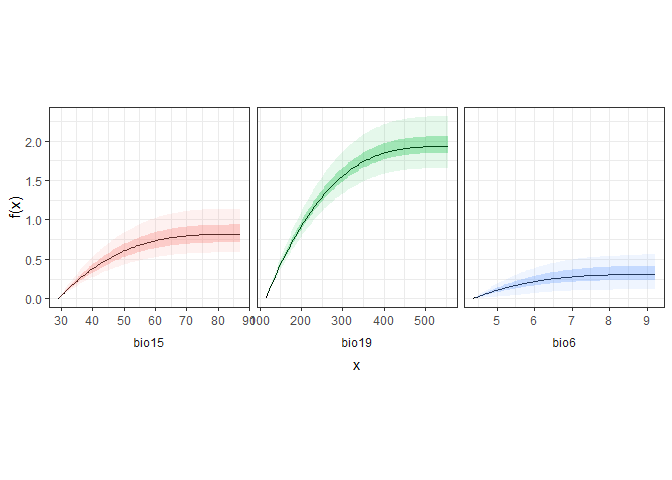
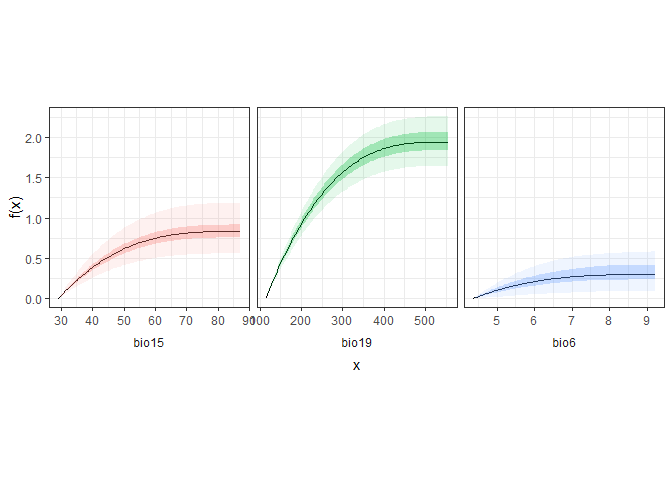
fix typo [skip ci]

diff --git a/README.md b/README.md
@@ -8,7 +8,7 @@ gdmmTMB
 
 The package `gdmmTMB` provides functions for fitting and interrogating
 Generalised Dissimilarity Mixed Models (GDMM) using maximum likelihood
-estimation, Laplace approximation and (optinally) Bayesian
+estimation, Laplace approximation and (optionally) Bayesian
 Bootstrapping.
 
 # Installation
@@ -18579,16 +18579,16 @@ summary(m)
     ## --------------------------------- Coeff. Table --------------------------------- 
     ## 
     ##                    Estimate  Std.Err.      2.5%       50%     97.5% pseudo-Z
-    ## diss: isp(bio6)1  3.098e-01 1.338e-01 5.873e-02 3.060e-01 5.454e-01   2.3151
-    ## diss: isp(bio6)2  9.915e-03 3.941e-02 1.001e-08 1.480e-08 1.272e-01   0.2516
-    ## diss: isp(bio6)3  8.240e-03 2.453e-02 1.000e-08 1.081e-08 9.361e-02   0.3359
-    ## diss: isp(bio15)1 8.320e-01 1.511e-01 5.828e-01 8.178e-01 1.137e+00   5.5061
-    ## diss: isp(bio15)2 1.063e-08 3.601e-09 1.000e-08 1.002e-08 1.294e-08   2.9519
-    ## diss: isp(bio15)3 1.155e-08 1.188e-08 1.000e-08 1.001e-08 1.704e-08   0.9726
-    ## diss: isp(bio19)1 1.946e+00 1.668e-01 1.651e+00 1.929e+00 2.309e+00  11.6698
-    ## diss: isp(bio19)2 1.045e-08 1.895e-09 1.000e-08 1.002e-08 1.270e-08   5.5180
-    ## diss: isp(bio19)3 1.032e-08 2.168e-09 1.000e-08 1.000e-08 1.162e-08   4.7614
-    ## (Intercept)       1.750e-01 6.982e-02 4.087e-02 1.713e-01 3.025e-01   2.5069
+    ## diss: isp(bio6)1  3.041e-01 1.479e-01 3.591e-02 2.996e-01 5.666e-01   2.0558
+    ## diss: isp(bio6)2  1.785e-02 5.134e-02 1.006e-08 1.508e-08 1.896e-01   0.3476
+    ## diss: isp(bio6)3  1.125e-02 3.215e-02 1.000e-08 1.146e-08 1.050e-01   0.3500
+    ## diss: isp(bio15)1 8.445e-01 1.607e-01 5.567e-01 8.334e-01 1.181e+00   5.2536
+    ## diss: isp(bio15)2 1.417e-08 2.314e-08 1.000e-08 1.002e-08 3.540e-08   0.6121
+    ## diss: isp(bio15)3 1.153e-08 1.390e-08 1.000e-08 1.000e-08 1.118e-08   0.8297
+    ## diss: isp(bio19)1 1.944e+00 1.693e-01 1.640e+00 1.941e+00 2.255e+00  11.4854
+    ## diss: isp(bio19)2 7.094e-05 7.091e-04 1.000e-08 1.000e-08 2.276e-08   0.1000
+    ## diss: isp(bio19)3 2.850e-08 1.822e-07 1.000e-08 1.000e-08 1.140e-08   0.1565
+    ## (Intercept)       1.716e-01 7.389e-02 3.069e-02 1.550e-01 3.147e-01   2.3219
     ##                   pseudo-Pval    
     ## diss: isp(bio6)1       < 0.01 ***
     ## diss: isp(bio6)2       < 0.01 ***
@@ -18608,8 +18608,8 @@ summary(m)
     ## signif. codes: '***' <0.001 '**' <0.01 '*' <0.05 '.' <0.1 
     ## ---
     ## 
-    ## Marginal log-likelihood (average):  -42593.83 
-    ## AIC:  85207.67 , AICc:  85207.72 , BIC:  85271.49 
+    ## Marginal log-likelihood (average):  -42649.98 
+    ## AIC:  85319.96 , AICc:  85320.01 , BIC:  85383.79 
     ## 
     ## --------------------------------------------------------------------------------
 
